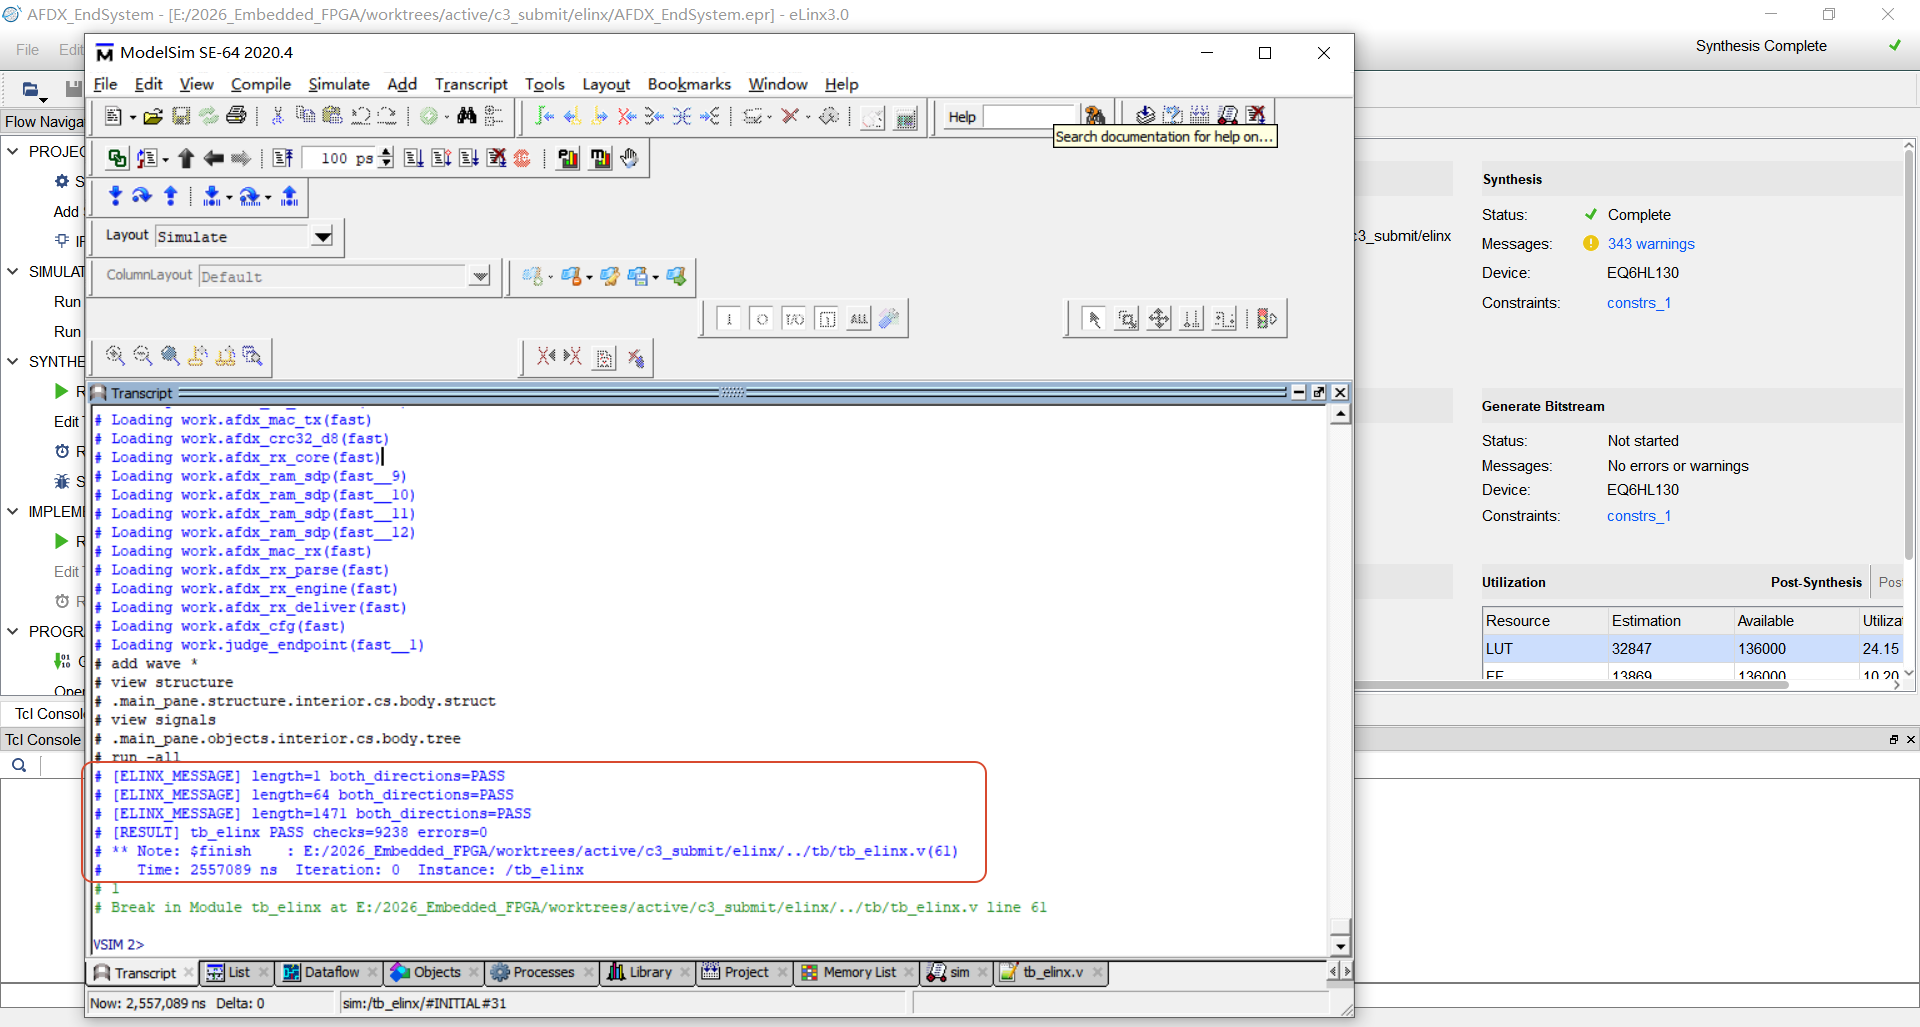
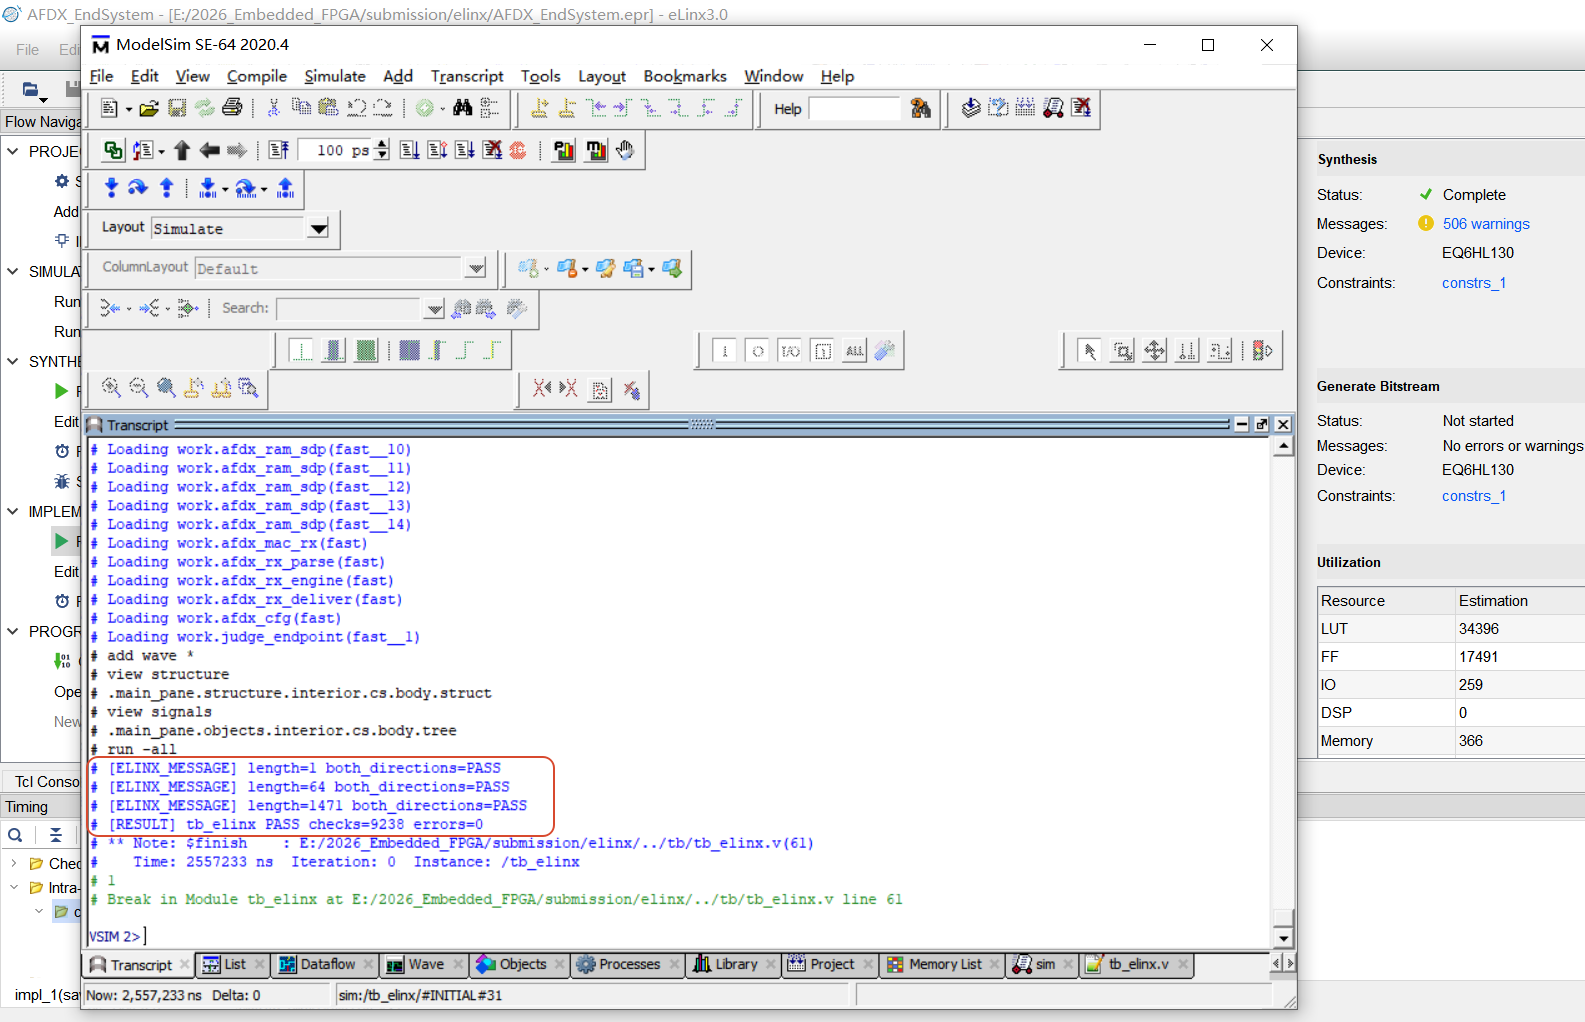
Replace tb_elinx screenshot with the delivery build run

Changed region(s): [[0.0, 0.0, 1.0, 1.0], [0.8656, 0.0303, 0.9584, 0.0607]]

diff --git a/README.md b/README.md
@@ -208,7 +208,7 @@ python tools/check_multicycle.py <本次VQM路径> --constraints elinx/constrain
 2. 在 Sources → Simulation Sources → `sim_1` 中确认目标仿真文件是 `tb_elinx.v`、仿真顶层是 `tb_elinx`，并且有 `judge_endpoint.v`。这些设置已写入工程，综合顶层仍是 `AFDX_top`。
 3. 点击 Flow → Run Behavioral Simulation。ModelSim 会运行两个端系统经双网互发 1、64、1471 字节消息的自检；预期依次看到三条 `[ELINX_MESSAGE] ... both_directions=PASS`，最后是 `[RESULT] tb_elinx PASS checks=9238 errors=0`。测试不需要 Python、输入文件或额外的 include 路径和宏。
 
-此入口已在 eLinx 界面实测通过，仿真时间约 2.56 ms，交付版界面截图见 `docs/screenshots/tb_elinx.png`。仿真结束时 ModelSim 会弹出 Finish Vsim 对话框，选“否”可保留窗口查看输出。
+此入口已在 eLinx 界面实测通过，仿真时间约 2.56 ms，界面截图见 `sim/wave/png/tb_elinx.png`。仿真结束时 ModelSim 会弹出 Finish Vsim 对话框，选“否”可保留窗口查看输出。
 
 ## 综合后网表仿真
 
